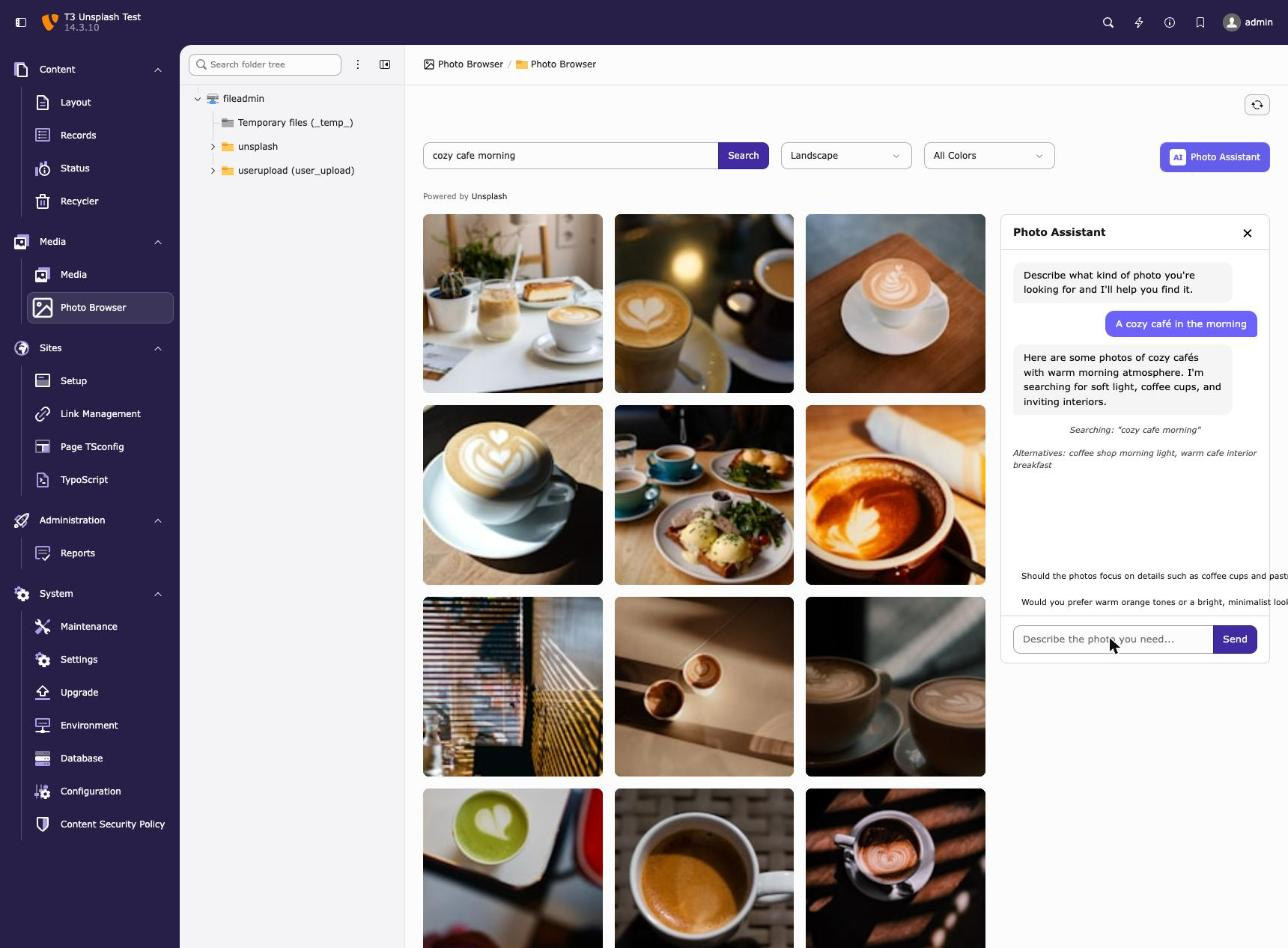
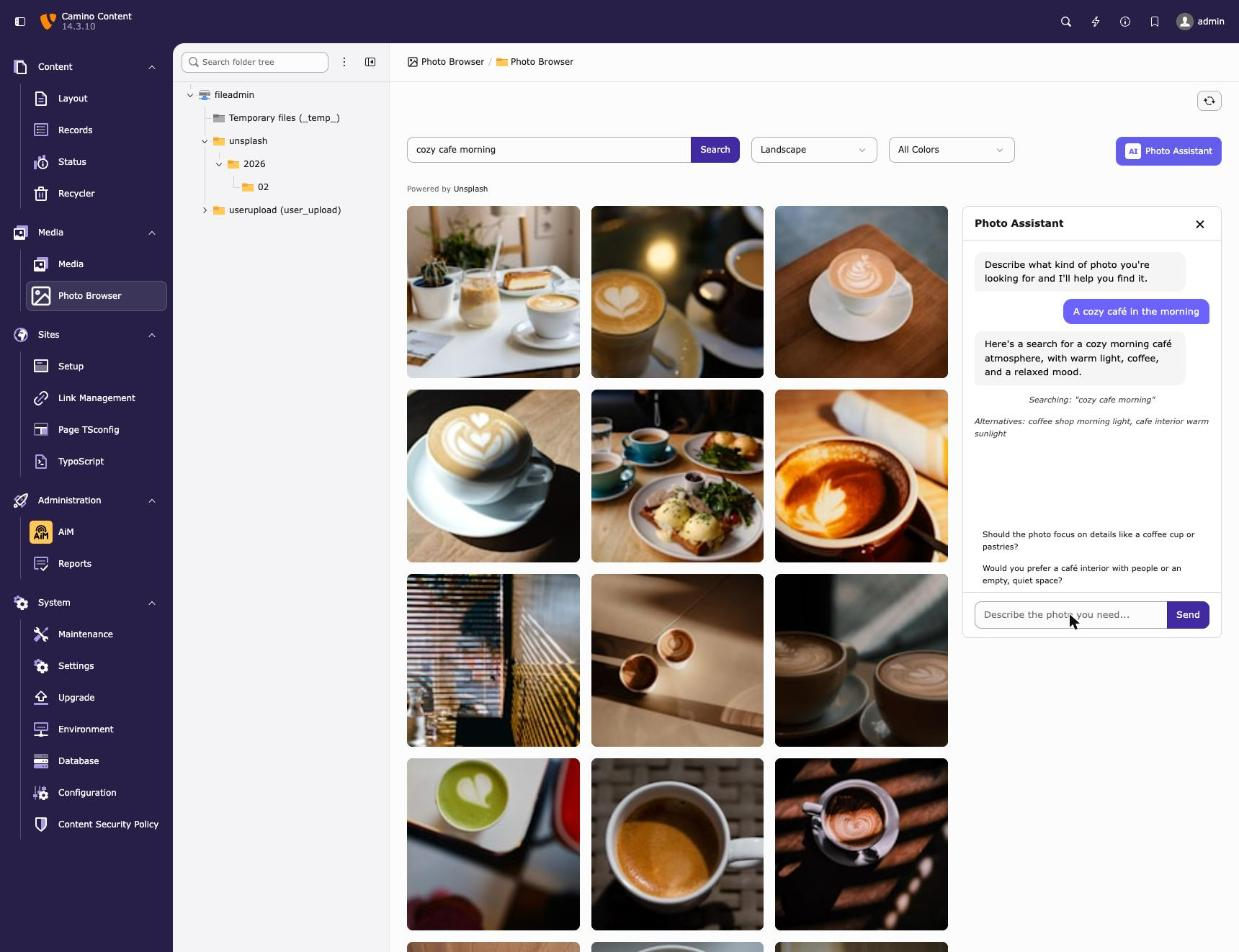
fix: wrap long suggestions in the Photo Assistant (#4)
The buttons kept their text on one line, so longer suggestions were cut
off at the edge of the panel.

Claude-Session: https://claude.ai/code/session_01XXUcpBYncWoeaTD3nVy5PD

diff --git a/Resources/Public/Css/backend.css b/Resources/Public/Css/backend.css
@@ -233,6 +233,9 @@
     font-size: 11px;
     padding: 3px 10px;
     border-radius: 16px;
+    max-width: 100%;
+    white-space: normal;
+    text-align: left;
 }
 
 /* Chat Input */
